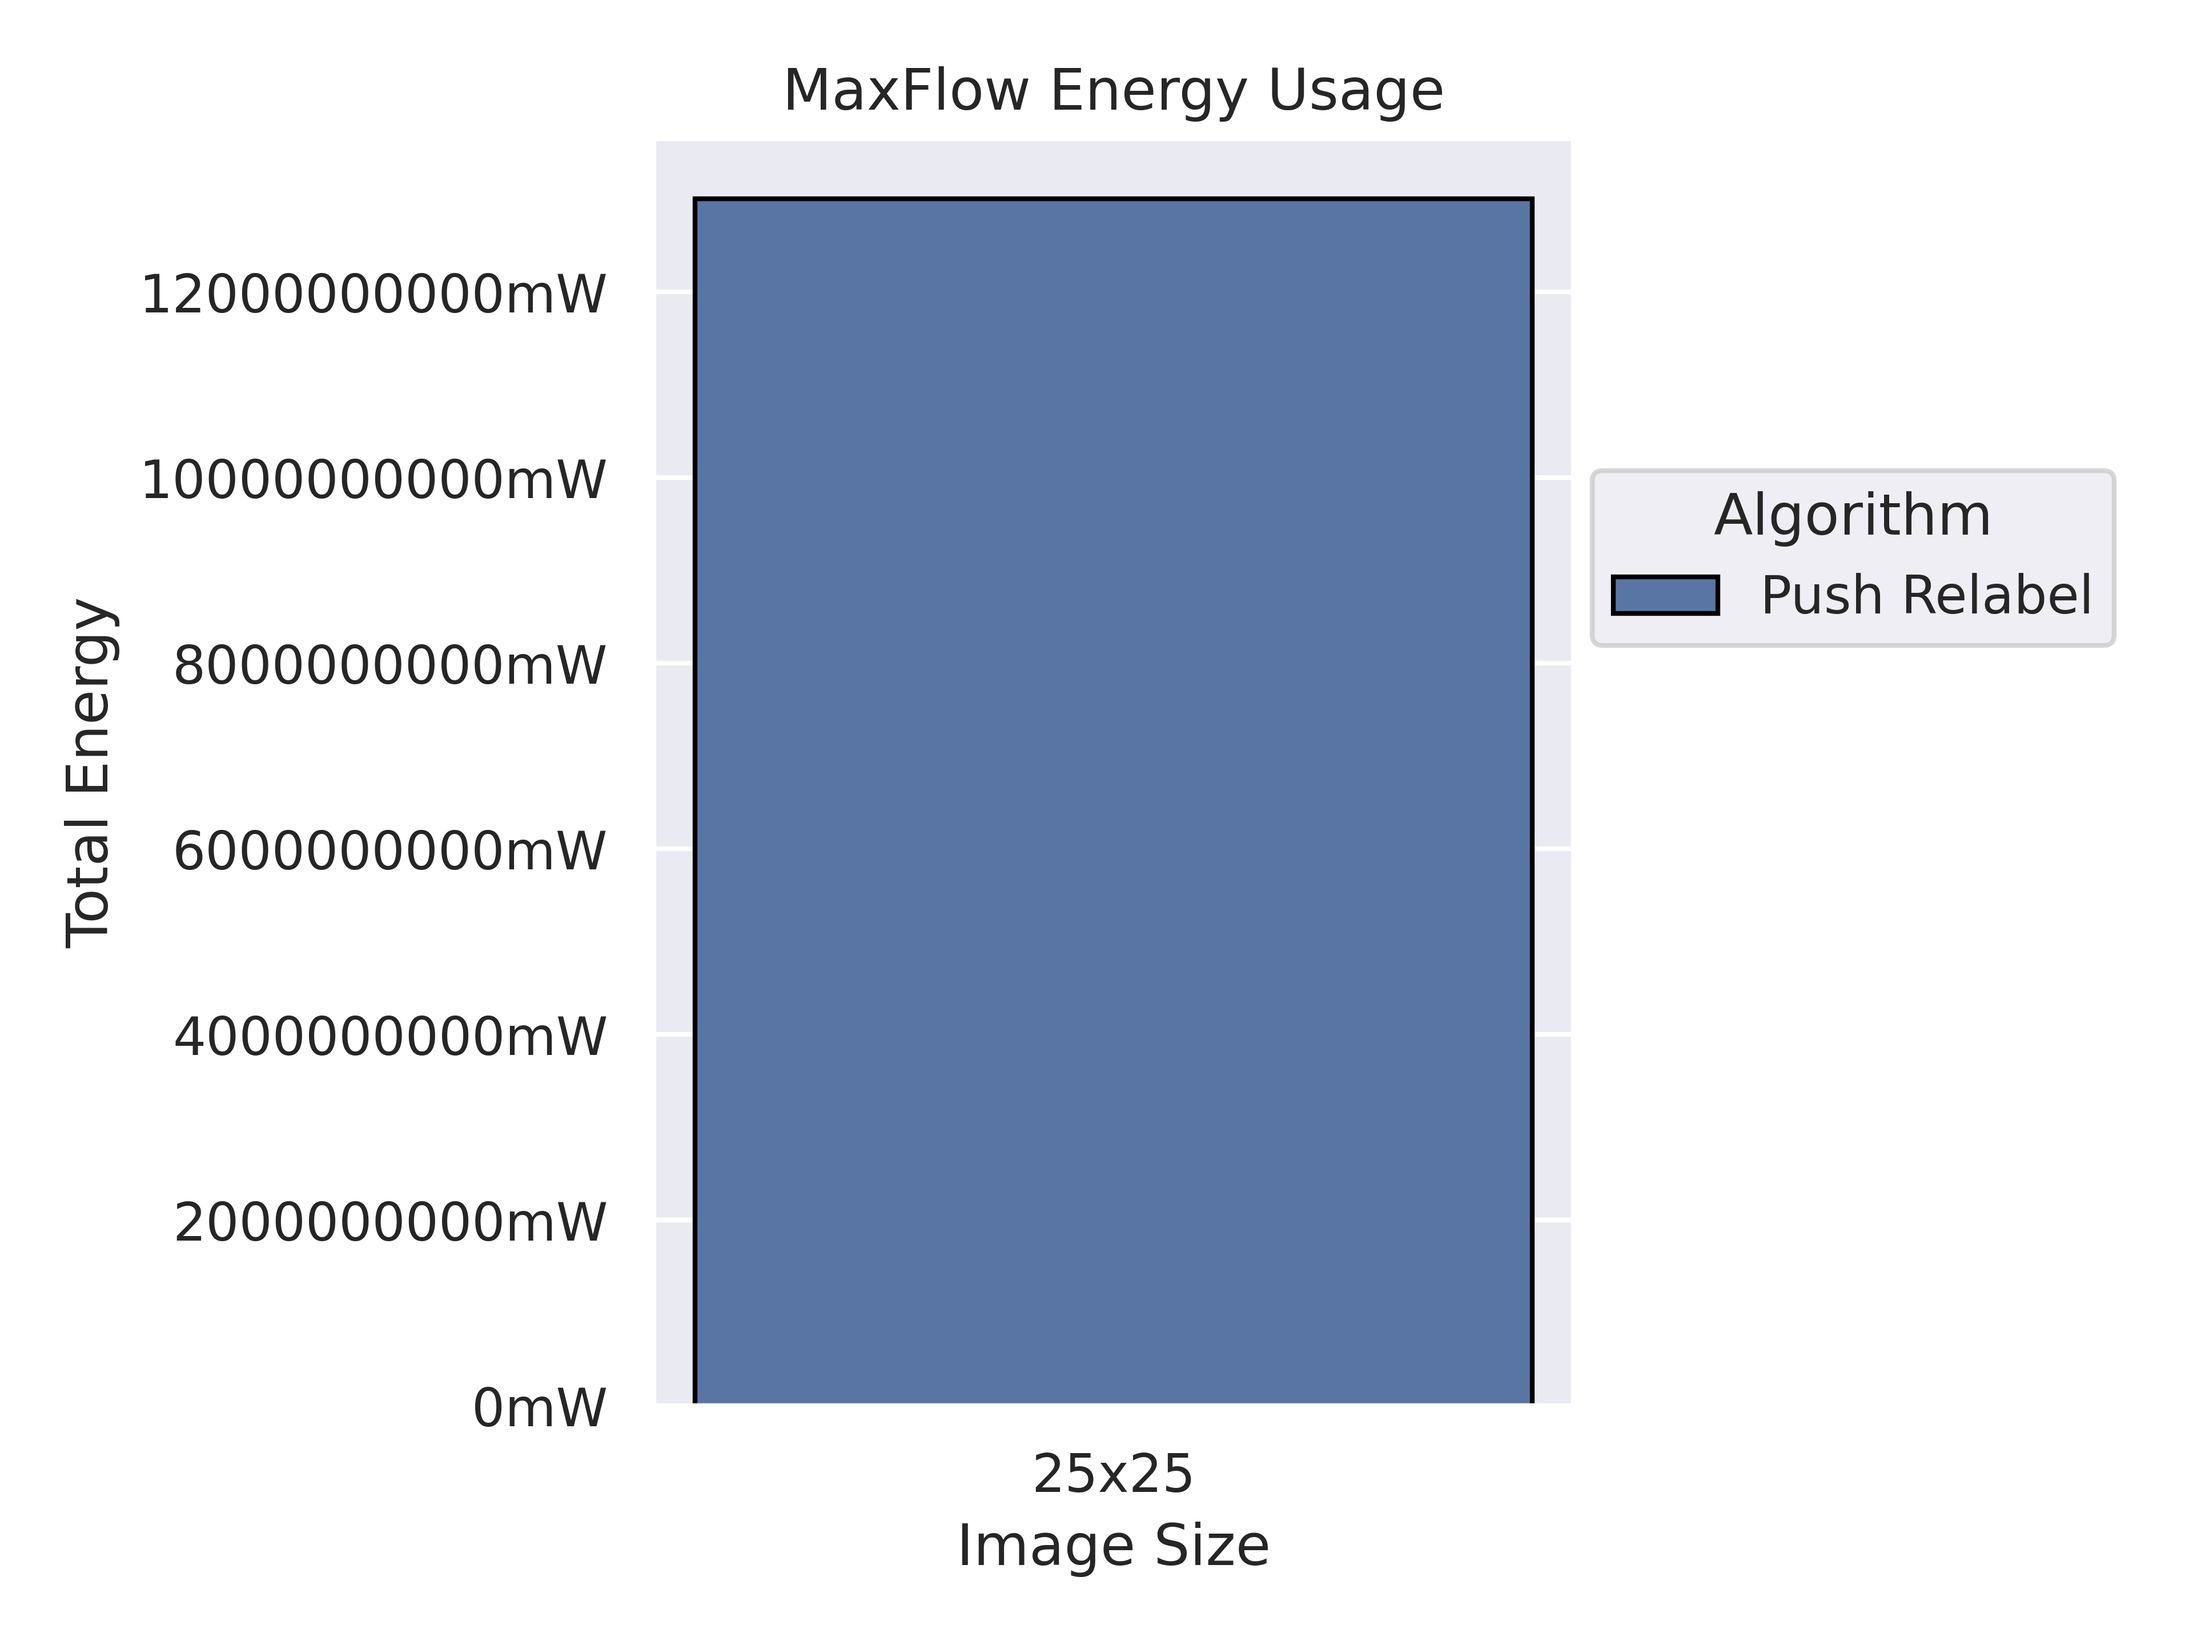
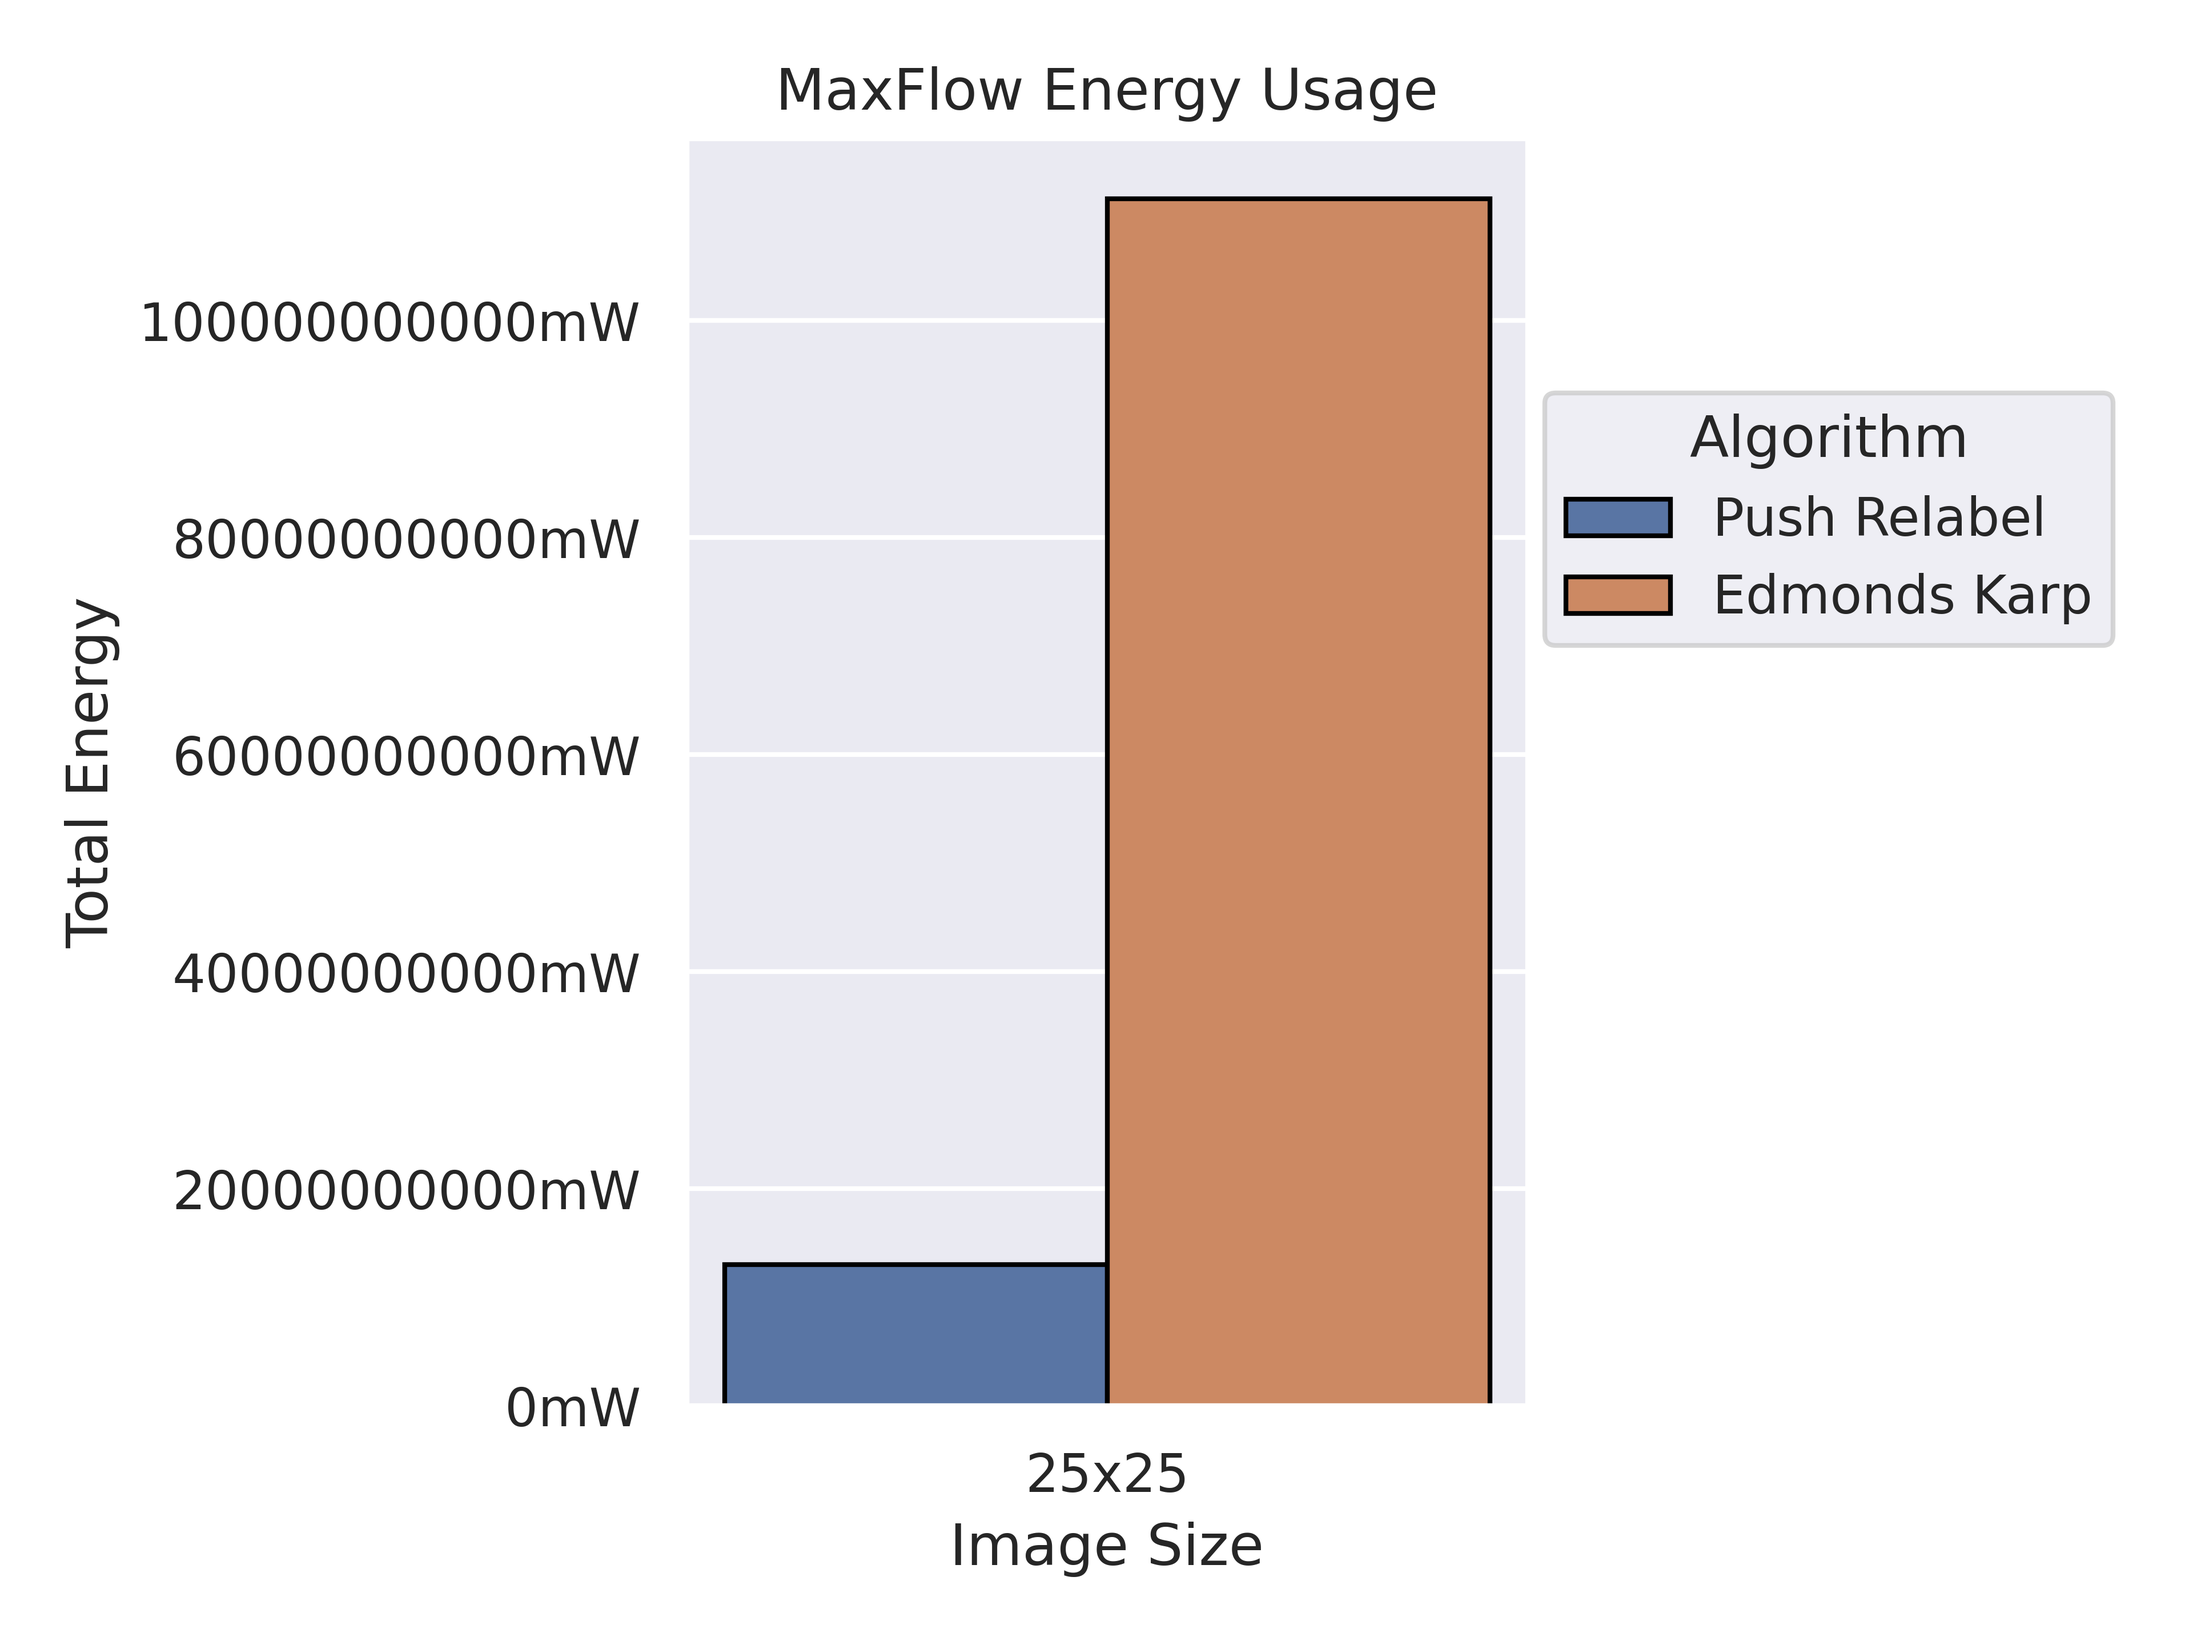
plotted ek

diff --git a/plots.py b/plots.py
@@ -12,7 +12,7 @@ sea.set()
 datadir = os.getcwd()+'/outputs/'
 
 all_accelerators = ["pl", "ek"]
-accelerators = ["pl"]
+accelerators = ["pl", "ek"]
 
 all_image_sizes = ["25x25", "15x15", "5x5"]
 image_sizes = ["25x25"]
